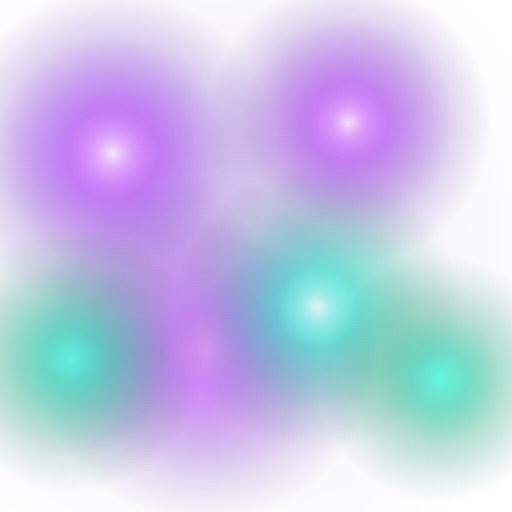
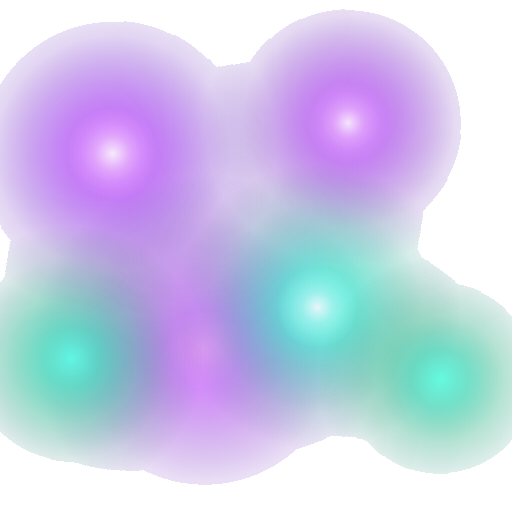
fix(v6.1.10): re-export V2 assets with sanitized pixel data — eliminate biolume plate
The biolume_glow_splotches and light_rays PNG/WebP files were exported
before v6.1.9's SVG fix and render-script sanitization updates.  They
still contained non-black RGB in near-transparent pixels, so the ambient
radialGradient region (alpha ≤ 31) was being ADD-blended as a rectangular
plate even after the runtime threshold fix.

Re-ran `node scripts/render-v2-assets.mjs` with the fixed SVG
(ambient stop-opacity 0.12 → 0.08) and updated thresholds:

  biolume_glow_splotches: 60,630 pixels zeroed  (threshold=32)  64 KB → 46 KB webp
  light_rays:            485,538 pixels zeroed  (threshold=20)  63 KB → 39 KB webp

Size reduction is direct evidence the old files carried dirty data.
Runtime sanitizeAdditiveTexture() remains as defence-in-depth.

diff --git a/CHANGELOG.md b/CHANGELOG.md
@@ -5,6 +5,26 @@
 All notable changes to this project will be documented in this file.
 This project follows [Semantic Versioning](https://semver.org/).
 
+## [6.1.10] - 2026-02-26
+
+### Fixed
+
+- **Biolume rectangular plate (source assets re-exported — definitive asset fix)**
+  — v6.1.9 corrected the runtime thresholds and the SVG source, but the
+  `biolume_glow_splotches.png/.webp` and `light_rays.png/.webp` files on disk had
+  been exported *before* those fixes and still contained non-black RGB in
+  near-transparent pixels.  Re-running `scripts/render-v2-assets.mjs` with the
+  v6.1.9 SVG fix and updated thresholds produces truly clean source assets:
+
+  | Asset | Pixels zeroed | Before | After |
+  |---|---|---|---|
+  | `biolume_glow_splotches.webp` | 60,630 (threshold=32) | 64 KB | 46 KB |
+  | `light_rays.webp` | 485,538 (threshold=20) | 63 KB | 39 KB |
+
+  The size reduction is direct evidence that the old files carried dirty pixel
+  data.  The runtime `sanitizeAdditiveTexture()` (BootScene, threshold=32) remains
+  as defence-in-depth for any future asset exports.
+
 ## [6.1.9] - 2026-02-26
 
 ### Fixed
